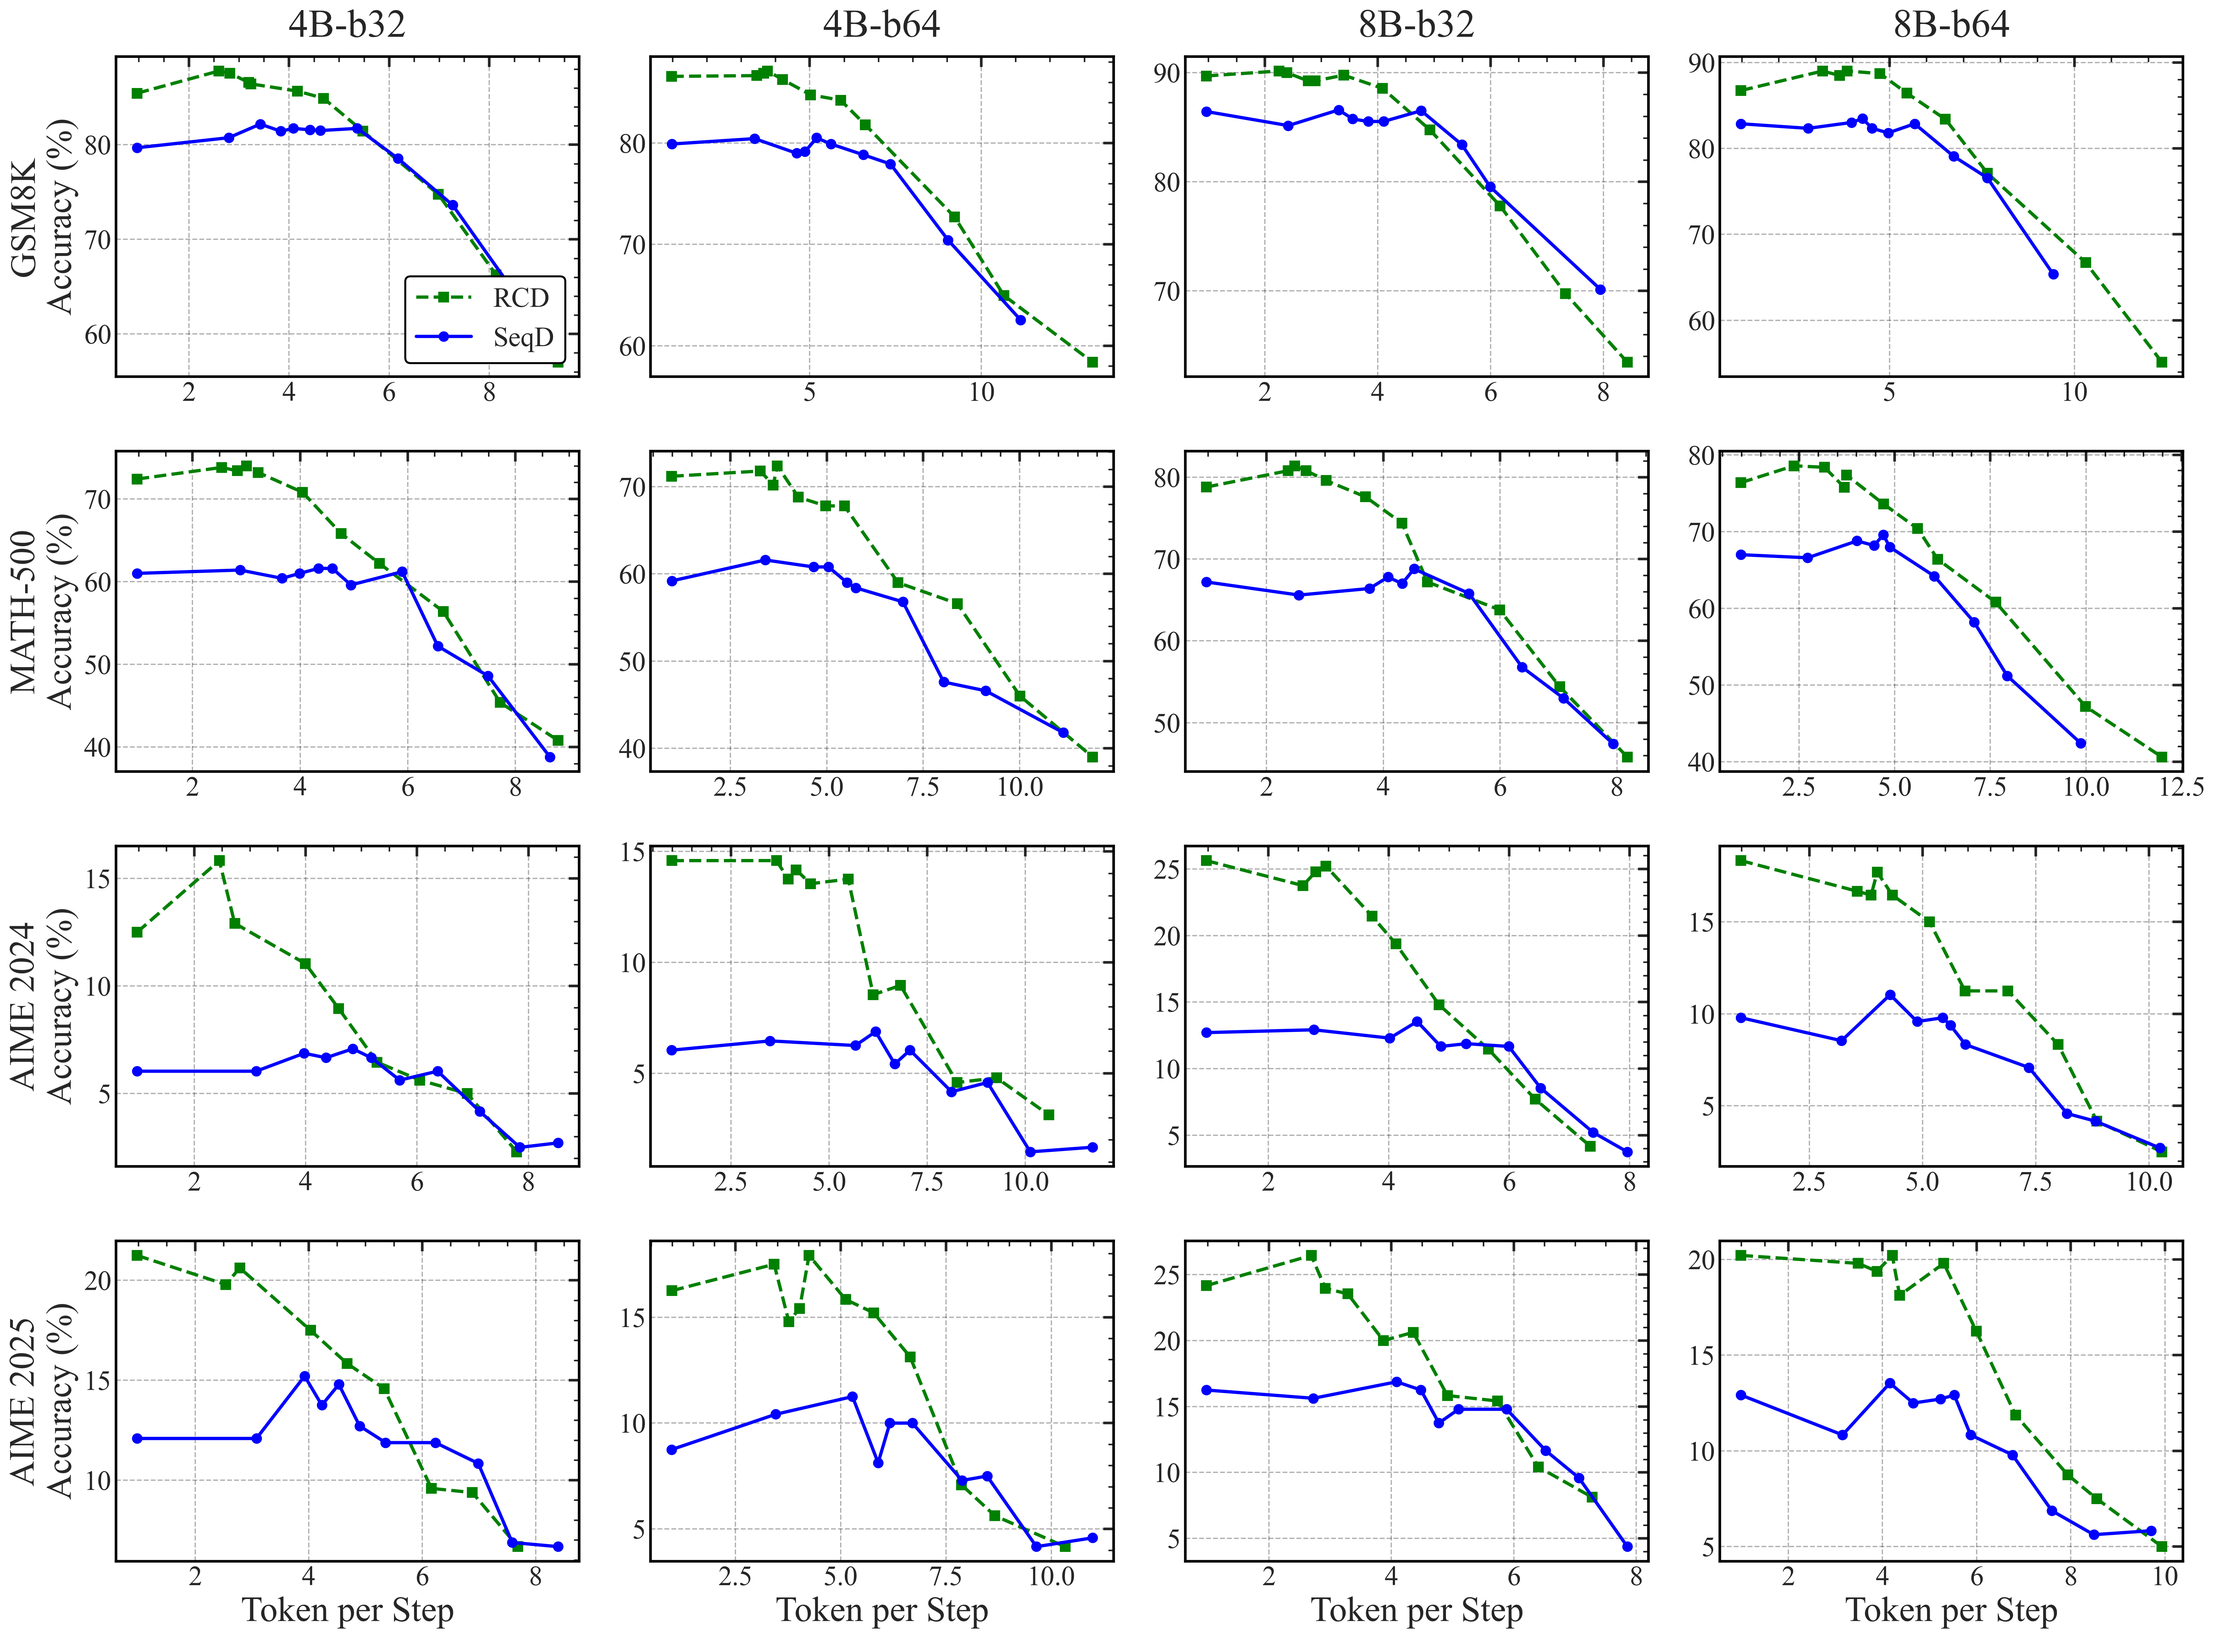
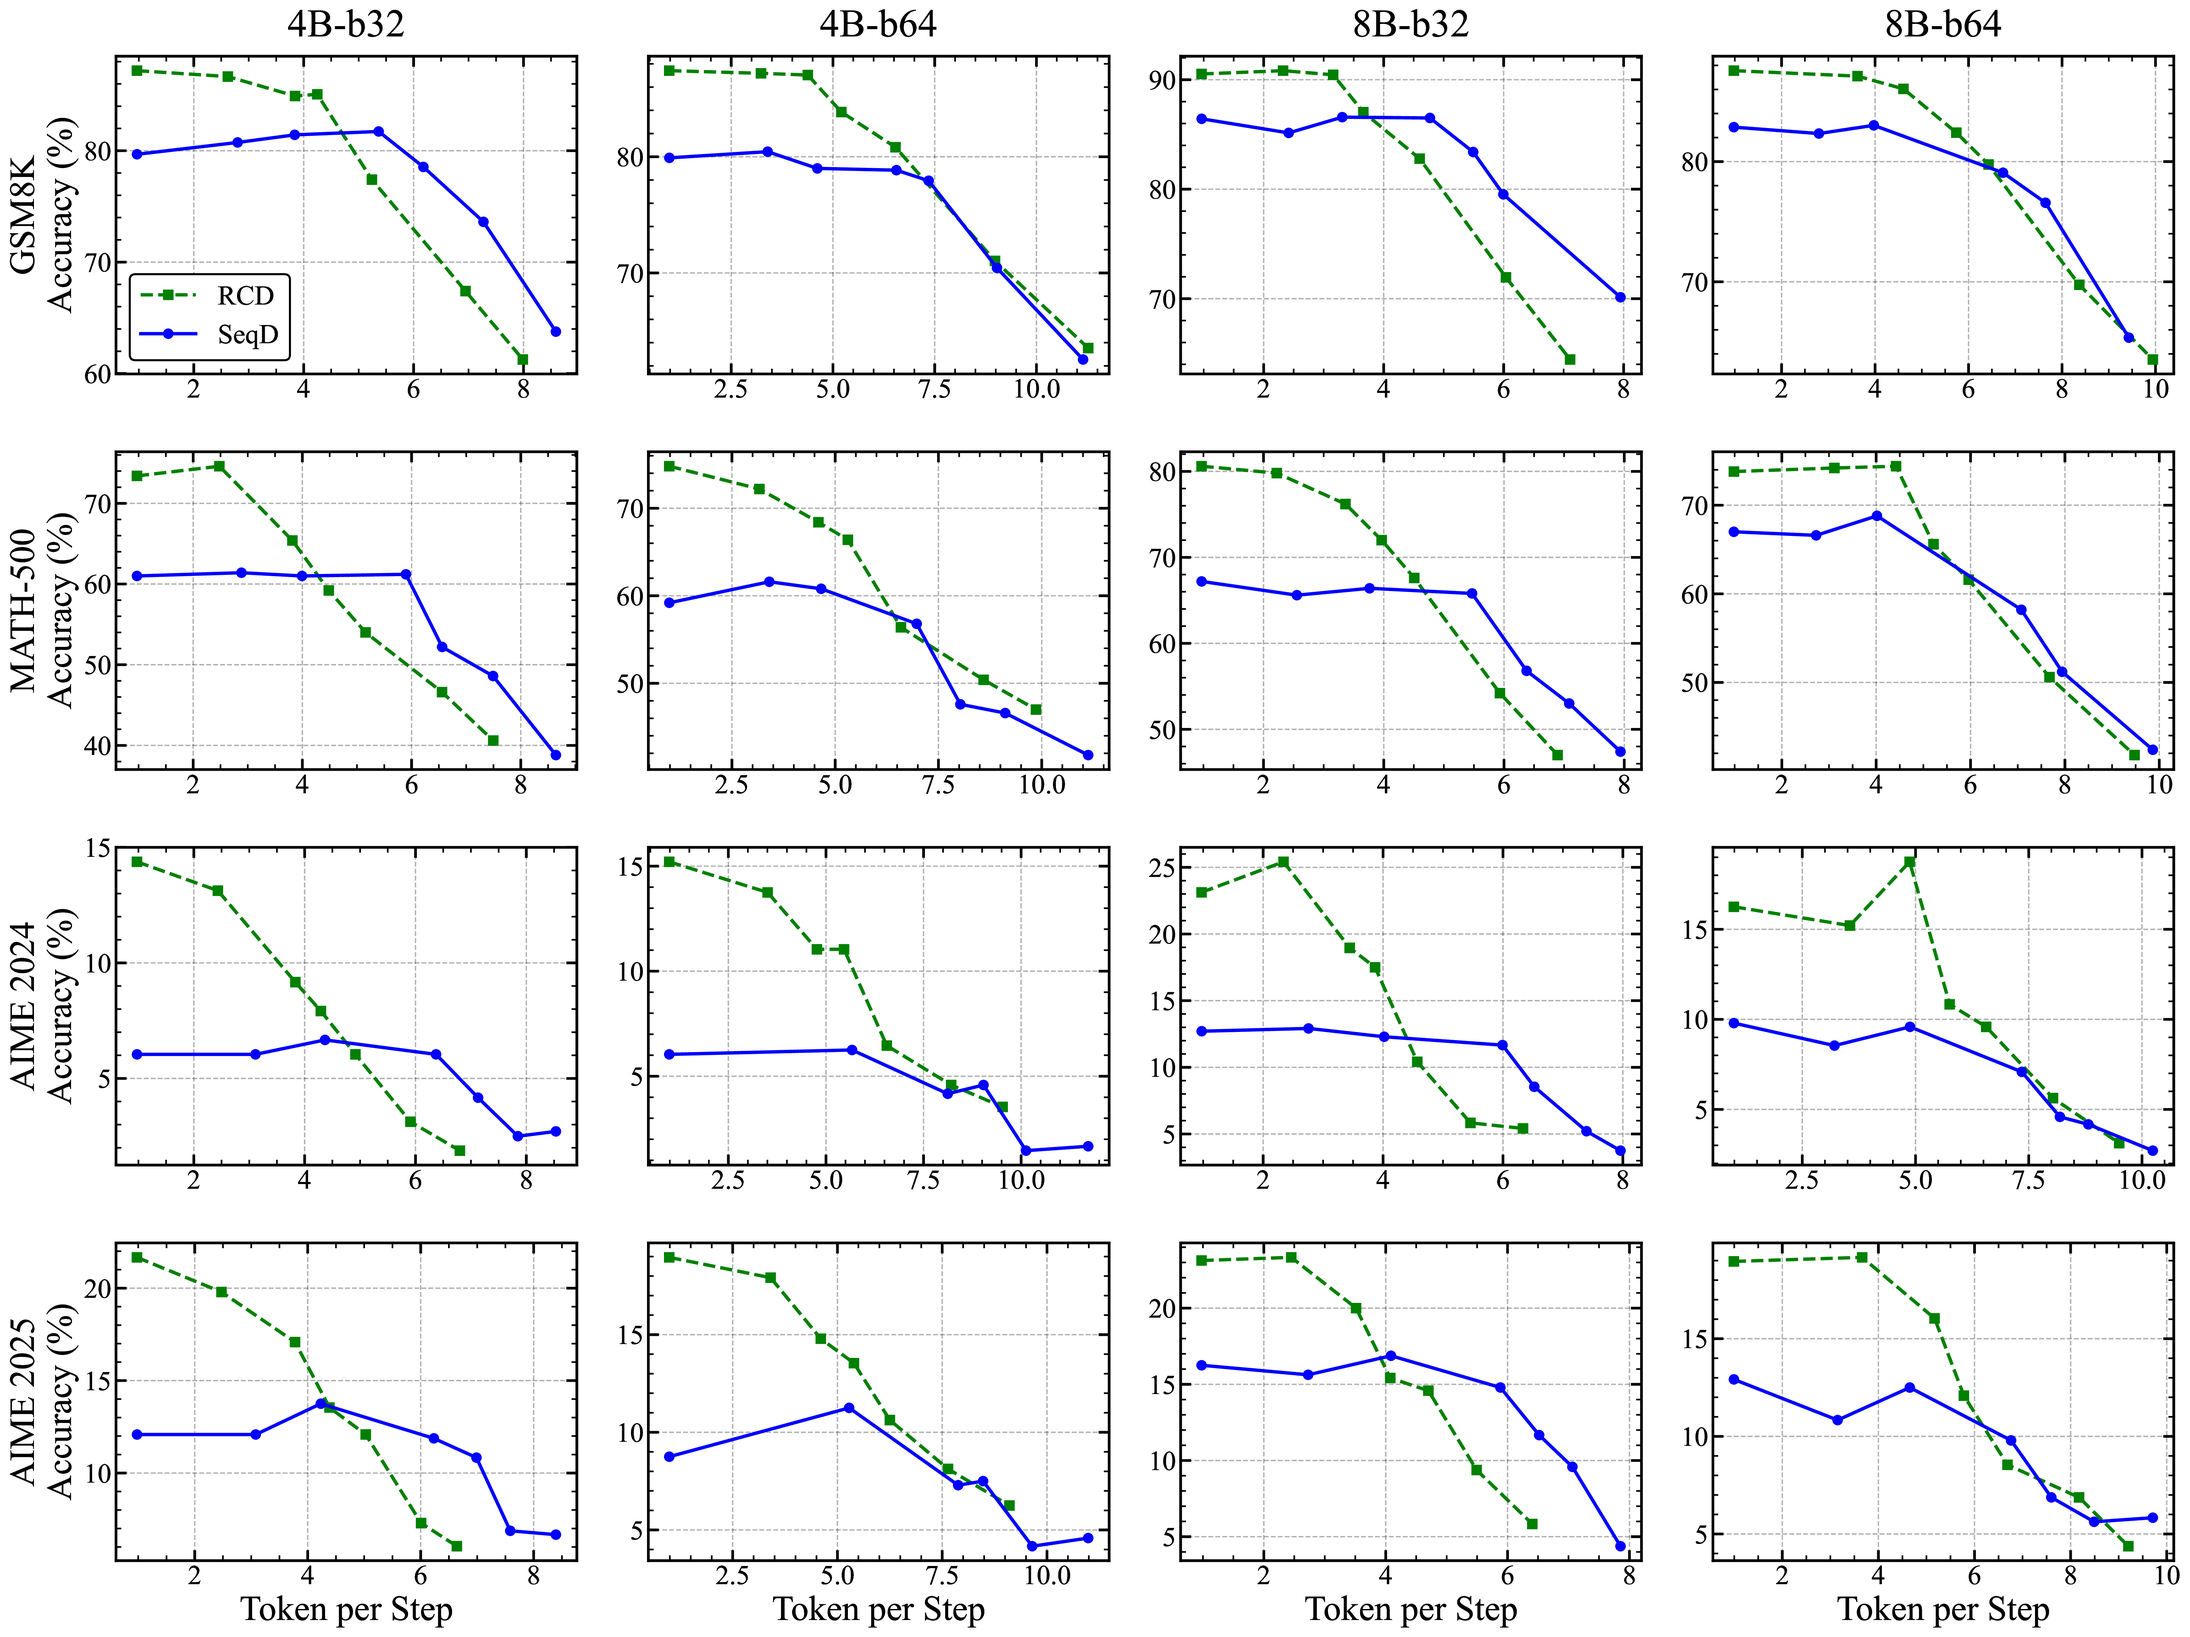
RCD project page: ICML 2026, v2 results table + Pareto figure, OpenReview link

diff --git a/projects/residual-context-diffusion/index.html b/projects/residual-context-diffusion/index.html
@@ -353,12 +353,17 @@
         </div>
 
         <div class="notes">
-            <p><sup>*</sup>Equal contribution &nbsp;&nbsp; <sup>†</sup>Joint advisement / Corresponding author</p>
+            <p><sup>*</sup>Equal contribution &nbsp;&nbsp; <sup>†</sup>Equal advising / Corresponding author</p>
+        </div>
+
+        <div class="notes">
+            <p><strong>ICML 2026</strong></p>
         </div>
         <div class="links">
             <a href="https://huggingface.co/collections/yuezhouhu/residual-context-diffusion">Models</a>
             <a href="https://github.com/yuezhouhu/residual-context-diffusion">Code</a>
             <a href="https://arxiv.org/abs/2601.22954">arXiv</a>
+            <a href="https://openreview.net/forum?id=fQYwAlpK3V">OpenReview</a>
         </div>
     </header>
 
@@ -388,8 +393,8 @@
             This is due to the "remasking" strategy which wastes intermediate computation on tokens that remain undecoded.
             We propose <strong>Residual Context Diffusion (RCD)</strong>, a novel paradigm that transforms this wasted computation into
             a guiding signal. By treating latent representations of low-confidence tokens as residual updates, RCD allows models to
-            progressively refine their knowledge. Our method achieves 5-10% gains on GSM8K/MATH500 and <strong>doubles accuracy</strong>
-            on competition-level AIME benchmarks while requiring up to 5x fewer steps.
+            progressively refine their knowledge. Our method achieves 4&ndash;11 percentage point gains on GSM8K/MATH500 and <strong>doubles accuracy</strong>
+            on competition-level AIME benchmarks while requiring up to 4&ndash;5&times; fewer steps at the baseline's peak accuracy.
         </p>
     </section>
 
@@ -464,7 +469,69 @@
     <section id="results">
         <h2>Experimental Results</h2>
 
+        <section id="main-results">
+            <h3>Main Results</h3>
+            <p class="figure-description">
+                <strong>RCD consistently beats Sequential Denoising (SeqD)</strong> across every model / block-size setting,
+                with the largest gains on competition-level <strong>AIME24/25</strong>, where accuracy often <strong>more than doubles</strong>.
+                Confidence threshold 0.85; SeqD/RCD use a 16,384 sequence length, Chat uses 512 tokens (1,024 for AIME).
+            </p>
+
+            <div class="table-wrapper">
+                <table>
+                    <thead>
+                        <tr>
+                            <th>Model</th><th>Variant</th>
+                            <th>GSM8K<sup>&dagger;</sup></th><th>MATH500</th><th>AIME24</th><th>AIME25</th>
+                        </tr>
+                    </thead>
+                    <tbody>
+                        <tr><td rowspan="3">SDAR-4B-b32</td><td>Chat<sup>&Dagger;</sup></td><td><strong>86.13</strong></td><td>50.20</td><td>5.83</td><td>2.50</td></tr>
+                        <tr><td>SeqD</td><td>81.73</td><td>61.20</td><td>6.04</td><td>11.88</td></tr>
+                        <tr class="rcd-row"><td>RCD</td><td>84.91</td><td><strong>65.40</strong></td><td><strong>9.17</strong></td><td><strong>17.08</strong></td></tr>
+
+                        <tr><td rowspan="3">SDAR-4B-b64</td><td>Chat<sup>&Dagger;</sup></td><td>85.90</td><td>49.80</td><td>6.25</td><td>1.67</td></tr>
+                        <tr><td>SeqD</td><td>78.85</td><td>56.80</td><td>4.17</td><td>7.29</td></tr>
+                        <tr class="rcd-row"><td>RCD</td><td><strong>87.04</strong></td><td><strong>68.40</strong></td><td><strong>11.04</strong></td><td><strong>14.79</strong></td></tr>
+
+                        <tr><td rowspan="3">SDAR-8B-b32</td><td>Chat<sup>&Dagger;</sup></td><td>88.40</td><td>50.00</td><td>6.46</td><td>4.17</td></tr>
+                        <tr><td>SeqD</td><td>86.50</td><td>65.80</td><td>11.67</td><td>14.79</td></tr>
+                        <tr class="rcd-row"><td>RCD</td><td><strong>90.45</strong></td><td><strong>76.20</strong></td><td><strong>18.96</strong></td><td><strong>20.00</strong></td></tr>
+
+                        <tr><td rowspan="3">SDAR-8B-b64</td><td>Chat<sup>&Dagger;</sup></td><td><strong>88.32</strong></td><td>51.60</td><td>5.20</td><td>2.50</td></tr>
+                        <tr><td>SeqD</td><td>82.87</td><td>64.20</td><td>7.08</td><td>9.79</td></tr>
+                        <tr class="rcd-row"><td>RCD</td><td>86.05</td><td><strong>74.40</strong></td><td><strong>18.75</strong></td><td><strong>16.04</strong></td></tr>
+                    </tbody>
+                </table>
+            </div>
+            <p class="caption">
+                <sup>&dagger;</sup> Potential data contamination was observed in the original Chat models on GSM8K, which may inflate the Chat baseline.
+                <sup>&Dagger;</sup> Chat variants are instruction-following models; SeqD/RCD are further adapted for mathematical reasoning.
+            </p>
+
+            <div class="table-wrapper">
+                <table>
+                    <thead>
+                        <tr><th>Model</th><th>Variant</th><th>GSM8K</th><th>MinervaMath</th></tr>
+                    </thead>
+                    <tbody>
+                        <tr><td rowspan="3">LLaDA</td><td>Base</td><td>70.30</td><td>31.40</td></tr>
+                        <tr><td>SeqD</td><td>75.74</td><td>31.10</td></tr>
+                        <tr class="rcd-row"><td>RCD</td><td><strong>78.09</strong></td><td><strong>37.00</strong></td></tr>
+                    </tbody>
+                </table>
+            </div>
+            <p class="caption">LLaDA (global-attention dLLM): sequence length 512, single-token-per-step decoding.</p>
+
+            <ul class="key-takeaways">
+                <li><span class="highlight-green">Doubles hard-task accuracy:</span> on SDAR-8B-b64 AIME24, RCD lifts accuracy from <strong>7.08 &rarr; 18.75</strong>.</li>
+                <li><span class="highlight-blue">Scales with size &amp; block:</span> gains of <strong>4&ndash;11 percentage points</strong> when scaling from 4B to 8B, widening as block size grows.</li>
+                <li><span class="highlight-orange">Generalizes across architectures:</span> on global-attention LLaDA, RCD adds a <strong>~6 point</strong> absolute gain on MinervaMath.</li>
+            </ul>
+        </section>
+
         <section id="efficiency-results">
+            <h3>Efficiency: Accuracy vs. Parallelism</h3>
             <div class="results-main-container">
                 <div class="pareto-chart">
                     <img src="sdar_accuracy_vs_tokens_per_step_academic.png" alt="Pareto Frontier: Accuracy vs Tokens per Step" class="responsive-img">
@@ -478,7 +545,7 @@
                     <ul class="key-takeaways">
                         <li><span class="highlight-green">Significant Speedup:</span> <strong>RCD (green dashed line)</strong> consistently shifts the frontier toward the <b>upper-left</b>, achieving higher accuracy with fewer steps.</li>
                         <li><span class="highlight-blue">Stability:</span> RCD enables stable generation at higher <i>Token per Step</i> regimes where the Sequential Denoising baseline fails to maintain coherence.</li>
-                        <li><span class="highlight-orange">4-5&times; Gain:</span> At equivalent accuracy levels, RCD requires up to 5&times; fewer steps on complex reasoning tasks.</li>
+                        <li><span class="highlight-orange">4-5&times; Gain:</span> At the baseline's peak accuracy, RCD requires up to 4&ndash;5&times; fewer steps on complex reasoning tasks.</li>
                     </ul>
                 </div>
             </div>
